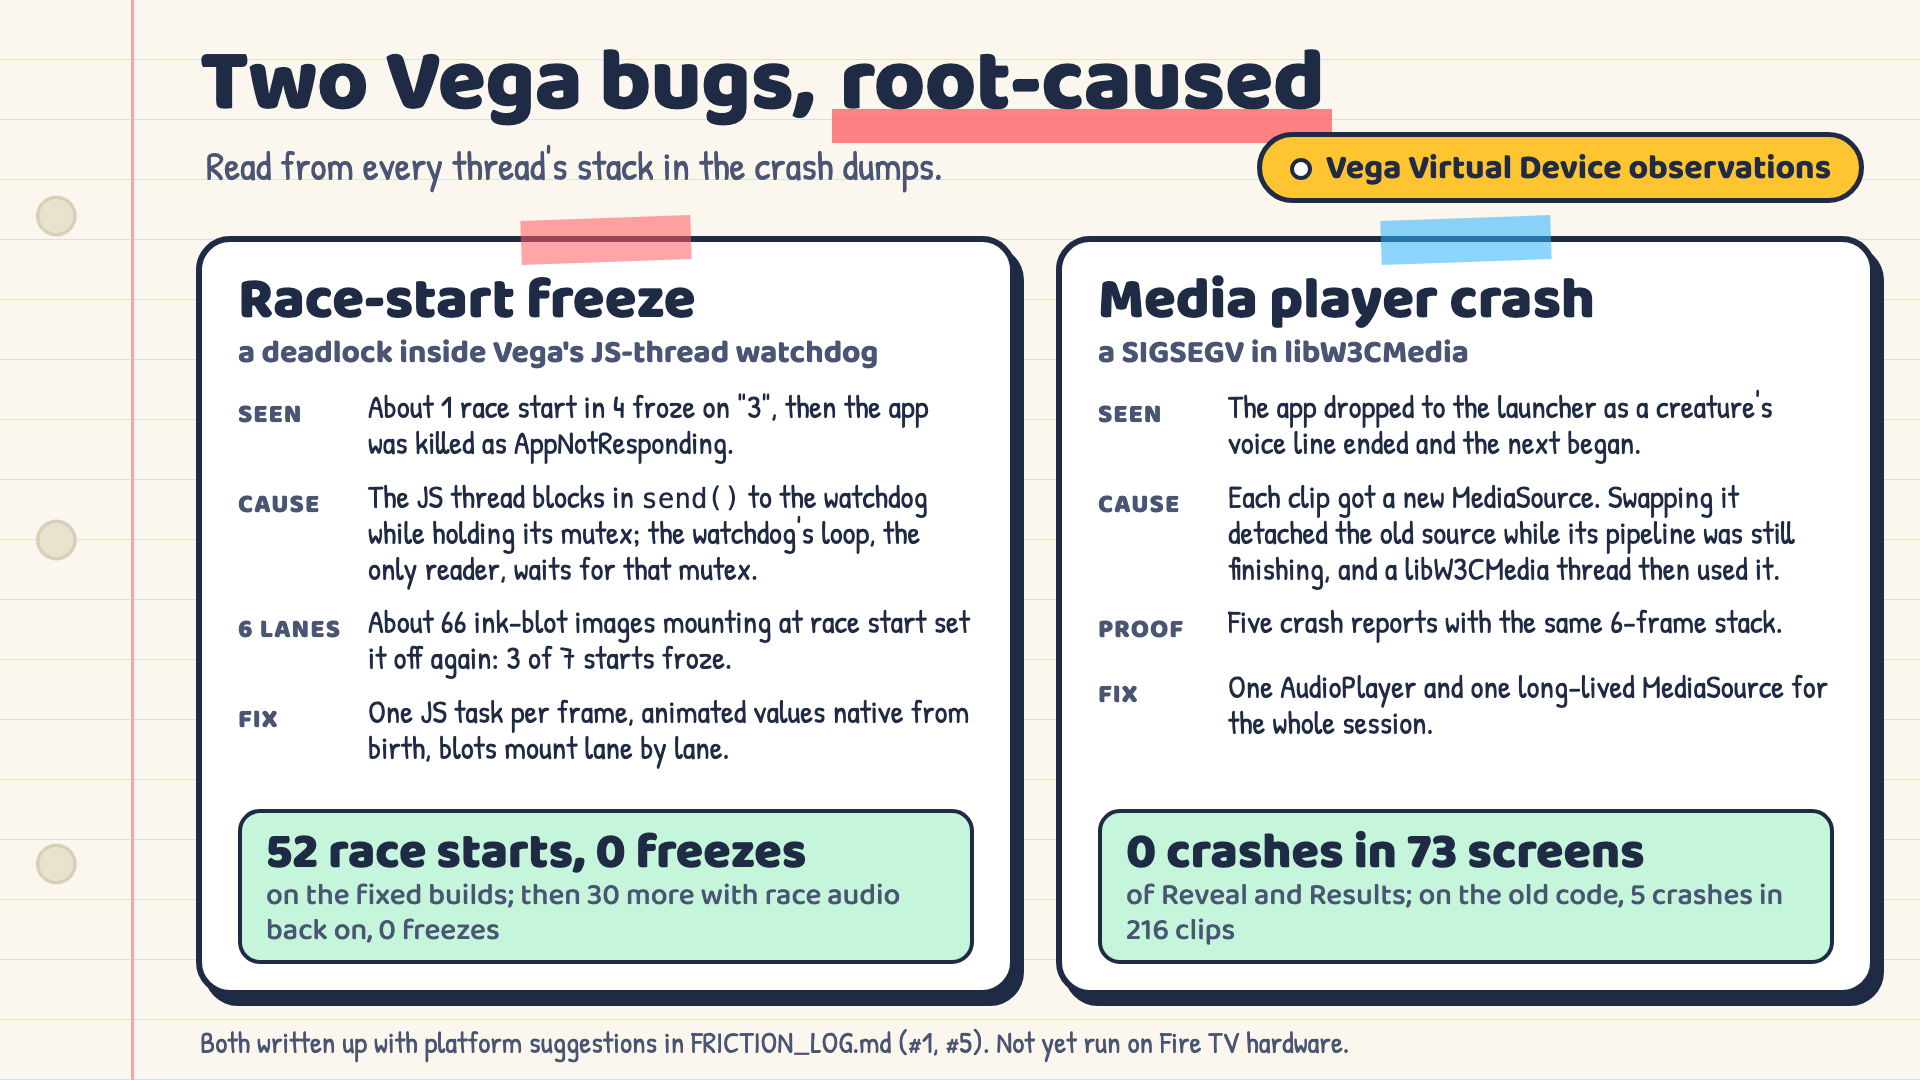
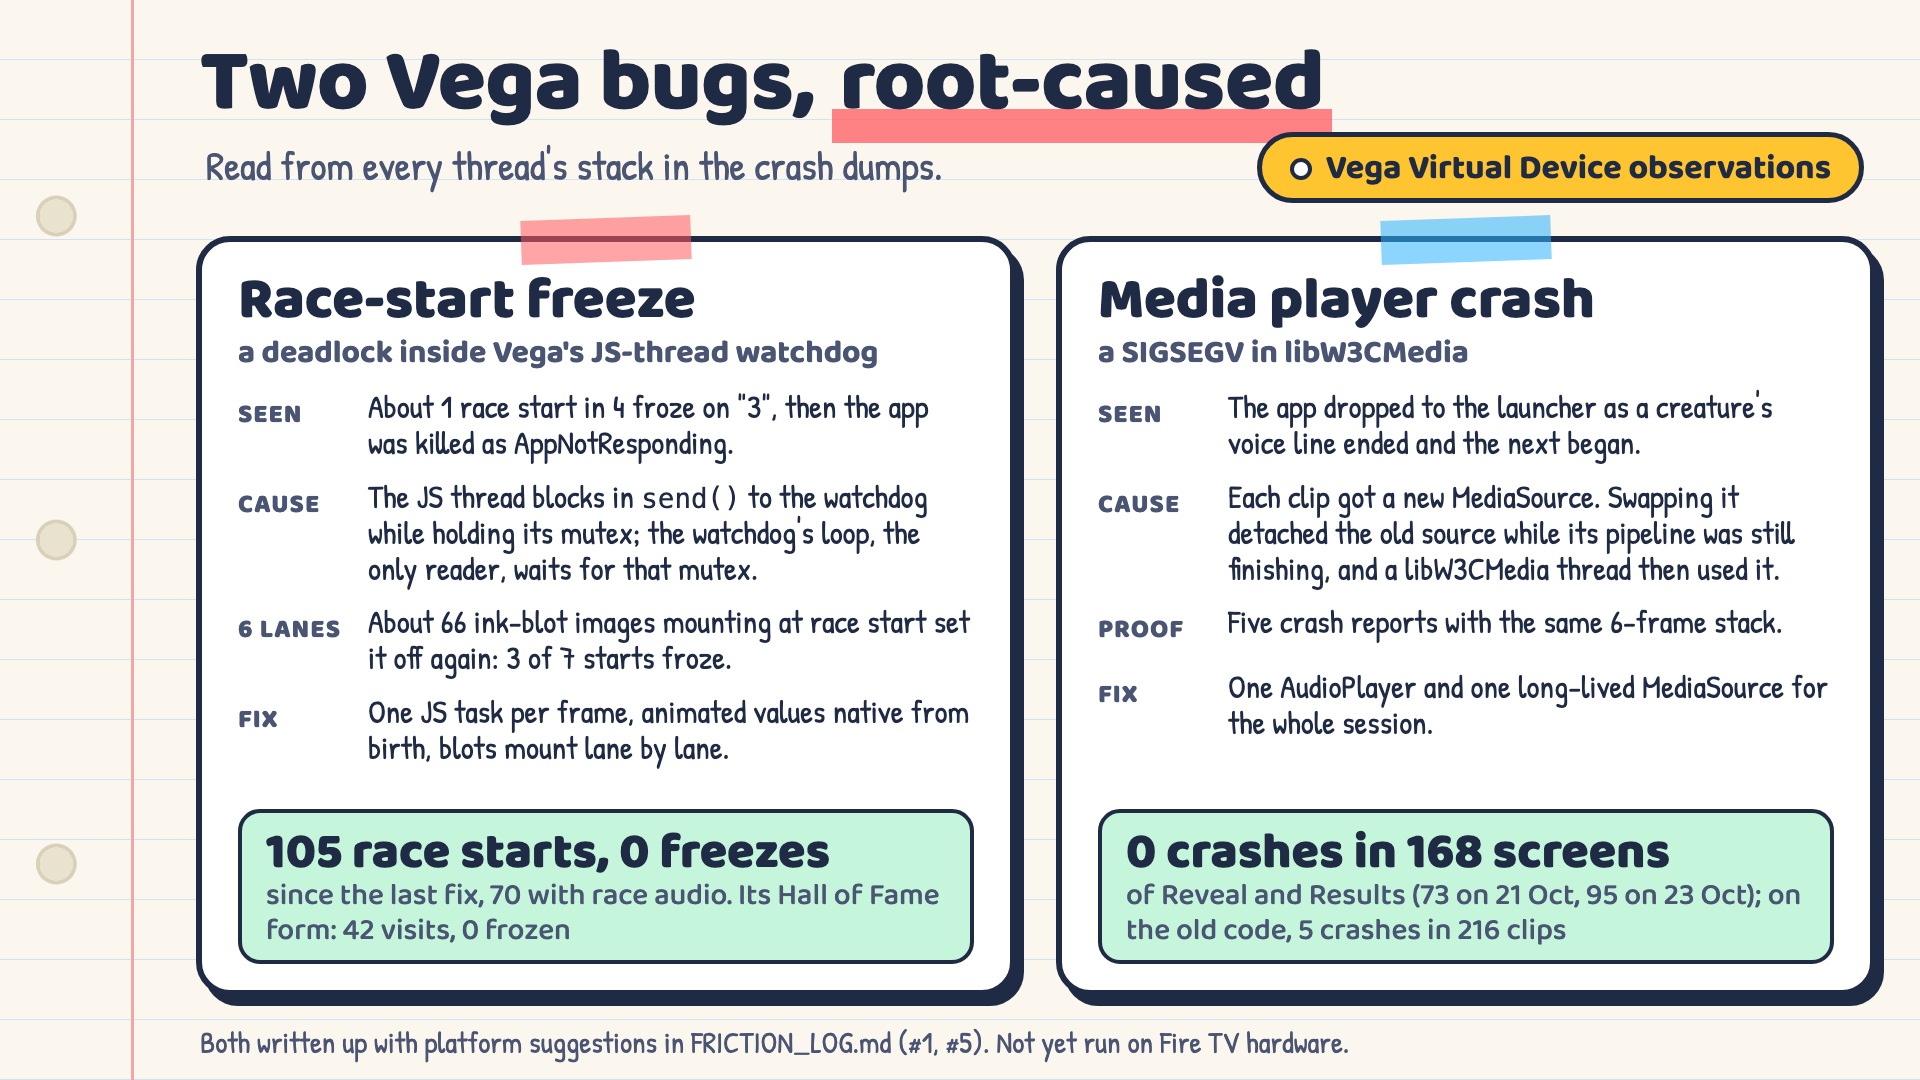
Gallery: final numbers (149 tests, 105 race starts / 0 freezes, 70 with race audio, Hall of Fame 42 visits / 0, 168 screens / 0 crashes, fairness 27% / 0.4%, AI off at launch)

Changed region(s): [[0.125, 0.7639, 0.5, 0.8861], [0.5938, 0.7639, 0.9375, 0.8861]]

diff --git a/docs/gallery/src/engineering-1920x1080.html b/docs/gallery/src/engineering-1920x1080.html
@@ -29,7 +29,7 @@
     <div class="row"><div class="k">Cause</div><div class="v hand">The JS thread blocks in <span class="mono">send()</span> to the watchdog while holding its mutex; the watchdog's loop, the only reader, waits for that mutex.</div></div>
     <div class="row"><div class="k">6 lanes</div><div class="v hand">About 66 ink-blot images mounting at race start set it off again: 3 of 7 starts froze.</div></div>
     <div class="row"><div class="k">Fix</div><div class="v hand">One JS task per frame, animated values native from birth, blots mount lane by lane.</div></div>
-    <div class="res"><b>52 race starts, 0 freezes</b><span>on the fixed builds; then 30 more with race audio back on, 0 freezes</span></div>
+    <div class="res"><b>105 race starts, 0 freezes</b><span>since the last fix, 70 with race audio. Its Hall of Fame form: 42 visits, 0 frozen</span></div>
   </div>
 
   <div class="card sticker k2"><span class="tape" style="--t: var(--blue)"></span>
@@ -39,7 +39,7 @@
     <div class="row"><div class="k">Cause</div><div class="v hand">Each clip got a new MediaSource. Swapping it detached the old source while its pipeline was still finishing, and a libW3CMedia thread then used it.</div></div>
     <div class="row"><div class="k">Proof</div><div class="v hand">Five crash reports with the same 6-frame stack.</div></div>
     <div class="row"><div class="k">Fix</div><div class="v hand">One AudioPlayer and one long-lived MediaSource for the whole session.</div></div>
-    <div class="res"><b>0 crashes in 73 screens</b><span>of Reveal and Results; on the old code, 5 crashes in 216 clips</span></div>
+    <div class="res"><b>0 crashes in 168 screens</b><span>of Reveal and Results (73 on 21 Oct, 95 on 23 Oct); on the old code, 5 crashes in 216 clips</span></div>
   </div>
 
   <div class="abs src foot">Both written up with platform suggestions in FRICTION_LOG.md (#1, #5). Not yet run on Fire TV hardware.</div>

diff --git a/docs/gallery/src/privacy-1920x1080.html b/docs/gallery/src/privacy-1920x1080.html
@@ -30,13 +30,13 @@
     <div class="card sticker"><span class="tape" style="--t: var(--red)"></span>
       <div class="ico" style="--f: #ffe3e4"><img src="../../../tv/src/assets/art/star.png" alt=""></div>
       <div><h2>A word guard</h2>
-      <p class="hand">Every line Claude writes is checked for words that never suit ages 4 to 10. A hit swaps in a safe offline line. First names are checked too.</p></div></div>
+      <p class="hand">Every line Claude writes is checked for words that never suit ages 4 to 10. A hit swaps in offline lines. First names are checked too.</p></div></div>
 
     <div class="card sticker"><span class="tape" style="--t: var(--green)"></span>
       <div class="ico" style="--f: #dcf8e8"><img src="../../../tv/src/assets/art/icon_trophy.png" alt=""></div>
       <div><h2>A grown-up's AI switch</h2>
-      <p class="hand">With AI personas off, no drawing from the room goes to Claude: every creature is made offline on the Mac.</p></div></div>
+      <p class="hand">AI personas are off at every launch until a grown-up turns them on behind a parent gate. Off, no drawing goes to Claude.</p></div></div>
   </div>
 
-  <div class="abs hand src foot"><b>Plainly:</b> with an API key and AI on, the cut-out drawing goes to Anthropic for the persona. With the HTTPS tunnel (for shouting), phone traffic passes through Cloudflare. Offline, nothing leaves the home network.</div>
+  <div class="abs hand src foot"><b>Plainly:</b> with an API key and AI on, the cut-out drawing goes to Anthropic for the persona. With the HTTPS tunnel (for shouting), phone traffic passes through Cloudflare. With AI off and no tunnel, nothing leaves the home network.</div>
 </body></html>

diff --git a/docs/gallery/src/architecture-1920x1080.html b/docs/gallery/src/architecture-1920x1080.html
@@ -52,8 +52,8 @@
     <p class="hand">Only when the relay has an API key. Otherwise: offline personas.</p>
     <span class="num">median 4.7 s, about $0.016 a creature (60 calls, timed on the Mac relay)</span></div>
 
-  <div class="abs foot"><b>134 automated tests</b>
-    <span class="hand">70 relay, 42 doodle-cutout, 16 TV, 6 phone</span></div>
+  <div class="abs foot"><b>149 automated tests</b>
+    <span class="hand">79 relay, 42 doodle-cutout, 20 TV, 8 phone</span></div>
 
   <svg class="wires" width="1920" height="1080">
     <path d="M644 400 H800 M782 386 L800 400 L782 414"/>

diff --git a/docs/gallery/src/race-1920x1080.html b/docs/gallery/src/race-1920x1080.html
@@ -29,5 +29,5 @@
     <div class="item sticker"><span class="pill doodle">Doodle Boost!</span>
       <p class="hand">Anyone far behind the leader speeds up, up to +70%.</p></div>
   </div>
-  <div class="abs hand sim"><b>Simulated, not playtested:</b> a little kid beats a grown-up who is trying in 27.8% of races with the boost, 0.6% without.</div>
+  <div class="abs hand sim"><b>Simulated, not playtested:</b> a little kid beats a grown-up who is trying in 27% of races with the boost, 0.4% without.</div>
 </body></html>

diff --git a/docs/gallery/README.md b/docs/gallery/README.md
@@ -11,9 +11,9 @@ TV's colours (`tv/src/theme.ts`) and fonts (Baloo 2, Patrick Hand, OFL, copied i
 | `abilities-1920x1080.png` | "What you draw changes how you race": the four abilities with the TV's own icons, pop words and labels, plus real TV crops (Reveal ability sticker, WINGS!, BIG ROAR!). |
 | `phone-1920x1080.png` | The phone: join with first name and age group, the creature card, the race controller. |
 | `race-1920x1080.png` | A 6-lane race with the +40% / +20% age-boost badges and Doodle Boost, explained, plus the simulated fairness numbers. |
-| `architecture-1920x1080.png` | Phone web app, Bun relay on a Mac, Vega TV app, Kokoro on the Mac, Claude in the cloud only with an API key; 134 tests. |
-| `engineering-1920x1080.png` | "Vega Virtual Device observations": the two root-caused Vega bugs (watchdog deadlock, libW3CMedia crash). |
-| `privacy-1920x1080.png` | Only the cut-out leaves the phone, no accounts, the word guard, the grown-ups' AI switch, and a plain-words footer. |
+| `architecture-1920x1080.png` | Phone web app, Bun relay on a Mac, Vega TV app, Kokoro on the Mac, Claude in the cloud only with an API key; 149 tests. |
+| `engineering-1920x1080.png` | "Vega Virtual Device observations": the two root-caused Vega bugs (watchdog deadlock, libW3CMedia crash), with 105 race starts and 42 Hall of Fame visits since the fixes, 0 frozen. |
+| `privacy-1920x1080.png` | Only the cut-out leaves the phone, no accounts, the word guard, the grown-ups' AI switch (off at every launch, parent gate), and a plain-words footer. |
 | `youtube-thumbnail-1280x720.png` | "Draw it. Race it! on the Fire TV" with Captain Bleep from the Reveal. |
 | `social-sketchlings-1280x640.png` | GitHub preview for `Harindulk/sketchlings`. |
 | `social-doodle-cutout-1280x640.png` | GitHub preview for `Harindulk/doodle-cutout`: photo to sticker, 42 tests, MIT. |
@@ -49,43 +49,37 @@ The pages load screenshots straight from the repo (`notes/shots`, `phone/docs/sc
 | Age boost = a speed multiplier, little 1.4, big 1.2, grown-up 1.0, shown as "+40% boost" / "+20% boost" | `shared/protocol.ts` (`AGE_BOOST`), `tv/src/game/race.ts` (`r.age` in the speed) |
 | Age groups: Little kid up to 7, Big kid 8 to 12, Grown-up 13 and up | `phone/src/main.ts`, `shared/protocol.ts` |
 | Doodle Boost: more than 150 dp behind the leader, up to +70% | `tv/src/game/race.ts` (`DOODLE_BOOST_GAP`, `Math.min(0.7, ...)`), `docs/FAIRNESS.md` |
-| Simulated, not playtested: a little kid beats a trying grown-up in 27.8% of races with the boost, 0.6% without | `docs/FAIRNESS.md` (corrected 22 Oct) |
+| Simulated, not playtested: a little kid beats a trying grown-up in 27% of races with the boost, 0.4% without | `docs/FAIRNESS.md` Results table (rerun 23 Oct after the fly change); `README.md` and `docs/DEVPOST.md` round it to "about 1 race in 4" and "fewer than 1 in 100" |
 | Architecture: phone web app (Vite + TypeScript), Bun relay on a Mac (HTTP + WebSocket), Vega TV app (React Native for Vega, SDK 0.24), Kokoro-82M + ffmpeg on the Mac, Claude only with an API key, `shared/protocol.ts` | `README.md` (Architecture) |
-| 665 ms to first frame, cool start, measured on the Vega Virtual Device | `README.md` KPI table |
-| Claude: median 4.7 s, about $0.016 a creature, 60 calls (`claude-opus-5-5`), timed on the Mac relay | `notes/bench-persona.md` (median $0.0159), `docs/ABILITY_AUDIT.md` |
-| Voices: 4-7 s per creature on an M5 MacBook | `server/README.md` (Voices, Speed) |
-| 134 tests: 70 relay, 42 doodle-cutout, 16 TV, 6 phone | counted `test(` / `it(` calls in `server/test`, `packages/doodle-cutout/test`, `tv/test`, `phone/test` at b6ef242 |
-| Race-start freeze: about 1 start in 4 froze on "3", AppNotResponding; JS thread blocked in `send()` while holding the watchdog loop's mutex; 6 lanes: about 66 blot images, 3 of 7 froze; fix; 52 race starts, 0 freezes | `FRICTION_LOG.md` #1, `README.md` |
-| 30 more race starts with race audio back on, 0 freezes | `notes/tv.md` (22 Oct evening; soak table 10 + 10 + 5 + 5) |
-| Media crash: SIGSEGV in libW3CMedia, a new MediaSource per clip, five crash reports with the same 6-frame stack, one long-lived source, 0 crashes over 73 Reveal/Results screens, 5 crashes in 216 clips on the old code | `FRICTION_LOG.md` #5 |
+| 665 ms to first frame, cool start, measured on the Vega Virtual Device | `README.md` KPI table (mean of 10 runs, 21 Oct), `docs/DEVPOST.md` |
+| Claude: median 4.7 s, about $0.016 a creature, 60 calls (`claude-opus-5-5`), timed on the Mac relay | `notes/bench-persona.md` (median $0.0159), `README.md`, `docs/DEVPOST.md` |
+| Voices: 4-7 s per creature on an M5 MacBook | `README.md` (speed table), `server/README.md` (Voices, Speed) |
+| 149 tests: 79 relay, 42 doodle-cutout, 20 TV, 8 phone | `README.md` (Tests, run on 23 Oct), `docs/DEVPOST.md`; recounted in `server/test`, `packages/doodle-cutout/test`, `tv/test`, `phone/test` at 236ce20 |
+| Race-start freeze: about 1 start in 4 froze on "3", AppNotResponding; JS thread blocked in `send()` while holding the watchdog loop's mutex; 6 lanes: about 66 blot images, 3 of 7 froze; fix; 105 race starts since the last fix, 0 freezes, 70 of them with race audio | `FRICTION_LOG.md` #1 (soak table), `README.md`, `docs/DEVPOST.md` |
+| Hall of Fame form of the same deadlock: 42 visits since its fix, 0 frozen (2 of 13 before) | `FRICTION_LOG.md` #1, `README.md` KPI table, `docs/DEVPOST.md` |
+| Media crash: SIGSEGV in libW3CMedia, a new MediaSource per clip, five crash reports with the same 6-frame stack, one long-lived source, 0 crashes over 168 Reveal/Results screens (73 on 21 Oct, 95 on 23 Oct), 5 crashes in 216 clips on the old code | `FRICTION_LOG.md` #5, `docs/DEVPOST.md` |
 | Only the cut-out leaves the phone (Web Worker cutout, PNG at most 1024 px) | `phone/src/scan.ts`, `README.md` (Privacy) |
 | The mic is read for loudness only, on the phone | `phone/src/controller.ts` (RMS of the analyser) |
 | No accounts, ads, purchases or chat; first name and age group | `README.md` (Privacy), phone join screen |
 | Room codes have no vowels | `server/src/rooms.ts` |
-| Word guard on every line Claude writes, swapped for the offline line; first names checked too | `server/src/persona.ts` (`UNSAFE_WORDS`, `BRANDS`, `UNSAFE_NAME`), `server/src/rooms.ts` (`cleanName`) |
-| AI switch: `aiPersonas: false` means no drawing from the room goes to Claude | `server/src/rooms.ts`, `server/src/server.ts`, `server/README.md` |
-| With an API key the cut-out goes to Anthropic; the HTTPS tunnel goes through Cloudflare; offline, nothing leaves the home network | `README.md` (Privacy) |
-| doodle-cutout: zero dependencies, TypeScript, browser / Web Worker / Node / Bun, MIT | `packages/doodle-cutout/README.md` |
+| Word guard on every line Claude writes, a hit swaps in the offline lines; first names checked too | `server/src/persona.ts` (`UNSAFE_WORDS`, `BRANDS`, `UNSAFE_NAME`), `server/src/rooms.ts` (`cleanName`) |
+| AI switch: off at every launch until a grown-up turns it on behind a parent gate; `aiPersonas: false` means no drawing from the room goes to Claude | `README.md` (Privacy), `docs/DEVPOST.md`, `tv/src/screens/GrownUps.tsx`, `server/src/rooms.ts`, `server/src/server.ts` |
+| With an API key and AI on the cut-out goes to Anthropic; the HTTPS tunnel goes through Cloudflare; with AI off and no tunnel, nothing leaves the home network | `README.md` (Privacy) |
+| doodle-cutout: zero dependencies, TypeScript, browser / Web Worker / Node / Bun, MIT, 42 tests (0.2.0; the separate repo is synced) | `packages/doodle-cutout/README.md` |
 
-## Where the docs disagree (newest number used)
+## Where the docs disagree
 
-- **Tests:** `README.md` and `docs/DEVPOST.md` say 120 (63 + 39 + 16 + 2). The committed test files count 134 (70 + 42 + 16 + 6). The doodle-cutout README now says 42; the separate repo still says 39 until it is synced. The main checkout has more, uncommitted (79 server, 8 phone, 20 TV).
-- **Claude:** `README.md`, `docs/DEVPOST.md` and `docs/IMPACT.md` say median 4.3 s and $0.015 over 11 scans (21 Oct). The newer benchmark (`notes/bench-persona.md`, 22 Oct) says 4.7 s and $0.0159 over 60 calls.
-- **Fairness:** `README.md` and `docs/DEVPOST.md` say "about 1 in 100" without the boost; `docs/FAIRNESS.md` was corrected to 0.6%.
-- **Voices:** `README.md` says about 4.3 s for three lines; `server/README.md` says 4-7 s per creature.
-- **Race audio:** `README.md` and `FRICTION_LOG.md` #5 say the race is silent; `notes/tv.md` (22 Oct evening) and commit a2f3c54 say race audio is back on.
-- **Word guard on names:** `README.md` says names typed on the phones are not checked; `server/src/rooms.ts` now checks them.
+- **Fairness:** the final `docs/FAIRNESS.md` table (rerun 23 Oct) says 27% with the boost and 0.4% without; its 22 Oct correction paragraph still says 0.6%. The image uses the table.
+- **Race-start freezes:** 105 starts since the last fix, 0 frozen, but 1 in 209 across every fixed build since 21 Oct (an interim build, a Reveal voice in the countdown). The image says "since the last fix", as the docs do.
 
 ## Claims left out
 
 - The phone card's ability line ("I saw ... → ...") is in `phone/src/main.ts`, but no screenshot shows it, so the phone image shows the card as screenshotted.
-- "Clear Hall of Fame": the server command exists, but the TV button is only in the main checkout's uncommitted `tv/src/screens/GrownUps.tsx`.
+- Clear Hall of Fame (in `GrownUps.tsx`, committed) is not shown: no screenshot of the Grown-ups screen.
 - The TV's "Running on Fire TV · Vega OS" badge wording: only the Vega Virtual Device has been tested.
-- The Hall of Fame freeze (the same watchdog deadlock) and the 6-lane freeze are not shown as separate bugs: `FRICTION_LOG.md` documents them as the same root cause as #1.
-- Whether AI personas default to on or off: the committed server treats a missing flag as on; the uncommitted TV code defaults to off.
+- The 6-lane freeze is not shown as a separate bug: `FRICTION_LOG.md` documents it as the same root cause as #1. The Hall of Fame freeze is one line under the race-start freeze for the same reason.
 
 ## Not sure
 
-- **The grown-ups' AI switch** is verified on the server side (committed). The TV screen that sets it (parent gate, `GrownUps.tsx`) is uncommitted work in the main checkout. If it is not committed before submission, drop that card from `privacy-1920x1080.png`.
 - The hero, thumbnail and social card say "on the Fire TV" as the pitch (as the README does); every screenshot caption says Vega Virtual Device.
 - The Captain Bleep frame comes from a video that is not in git.
